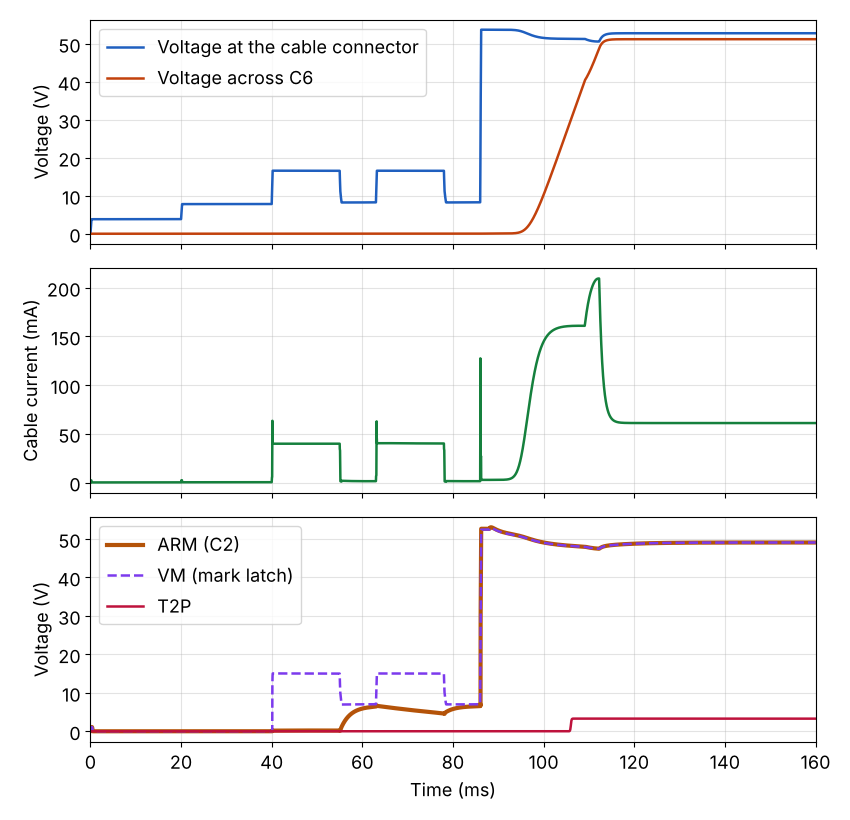
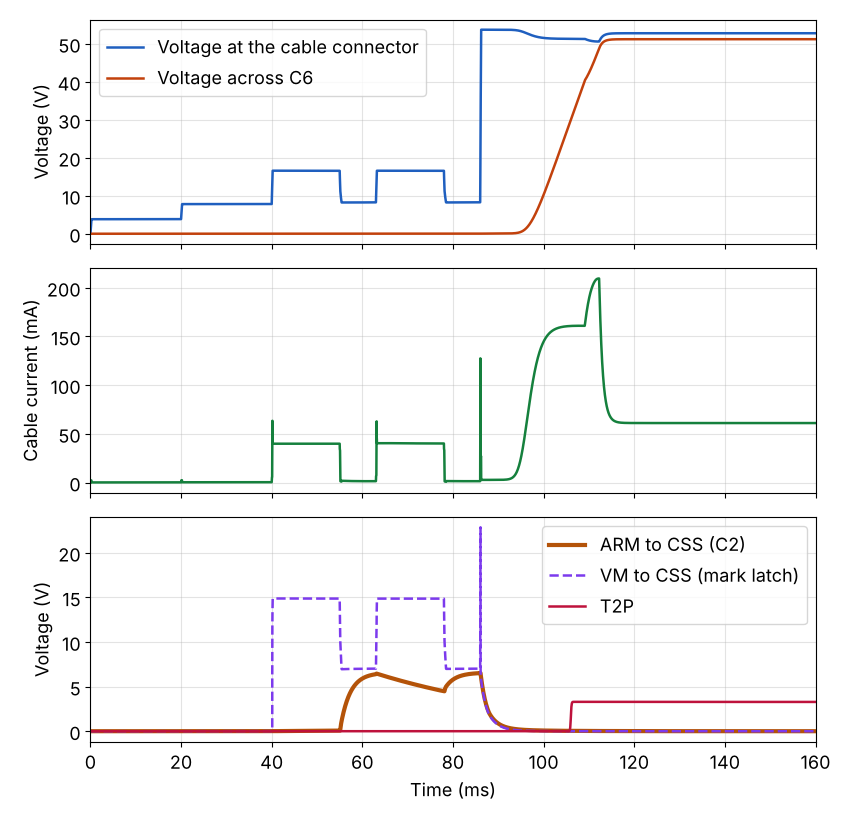
Correct stale figures and the sequence plot of the PoE front end
The requirement and comparison tables carry the current class and inrush
results. The sequence plot shows ARM and VM measured to CSS.

Claude-Session: https://claude.ai/code/session_01T8XQLubxXrmn6R8AJASSd5

Changed region(s): [[0.0306, 0.6402, 0.9788, 0.8841], [0.5812, 0.8537, 0.9788, 0.9146], [0.2753, 0.8841, 0.3365, 0.9146]]

diff --git a/design/poe-front-end/sim/plots.py b/design/poe-front-end/sim/plots.py
@@ -20,10 +20,10 @@ def plot_sequence(fname, events, rcab, title):
     ax[0].set_ylabel("Voltage (V)"); ax[0].legend(loc="upper left")
     ax[1].plot(t, [-r[2] * 1e3 for r in d], color="#15803d")
     ax[1].set_ylabel("Cable current (mA)")
-    ax[2].plot(t, [r[5] for r in d], color="#b45309", linewidth=3, label="ARM (C2)")
-    ax[2].plot(t, [r[4] for r in d], color="#7c3aed", linestyle="--", label="VM (mark latch)")
+    ax[2].plot(t, [r[12] for r in d], color="#b45309", linewidth=3, label="ARM to CSS (C2)")
+    ax[2].plot(t, [r[11] for r in d], color="#7c3aed", linestyle="--", label="VM to CSS (mark latch)")
     ax[2].plot(t, [r[7] for r in d], color="#be123c", label="T2P")
-    ax[2].set_ylabel("Voltage (V)"); ax[2].set_xlabel("Time (ms)"); ax[2].legend(loc="upper left")
+    ax[2].set_ylabel("Voltage (V)"); ax[2].set_xlabel("Time (ms)"); ax[2].legend(loc="upper right")
     ax[2].set_xlim(0, 160)
     fig.tight_layout()
     fig.savefig(os.path.join(HERE, fname)); plt.close(fig)

diff --git a/design/poe-front-end/sim/checks.py b/design/poe-front-end/sim/checks.py
@@ -113,7 +113,7 @@ def check_static():
             row(name, "Class sink turns off", f"{off[0]:.1f} V to {off[1]:.1f} V", "20.5 V to 30 V", 20.5 < off[0] and off[1] < 30)
 
 
-COLS = ["v(pip,pin)", "i(Vvss)", "v(vdd)", "v(vm)", "v(narm)", "v(nh)", "v(t2p,rtn)", "v(vdd,rtn)", "v(rtn)", "v(nhg)"]
+COLS = ["v(pip,pin)", "i(Vvss)", "v(vdd)", "v(vm)", "v(narm)", "v(nh)", "v(t2p,rtn)", "v(vdd,rtn)", "v(rtn)", "v(nhg)", "v(vm,css)", "v(narm,css)"]
 DET = [(4, 0.02), (8, 0.02)]
 
 

diff --git a/design/poe-front-end/README.md b/design/poe-front-end/README.md
@@ -37,7 +37,7 @@ The design is simulated and drawn. It is not built and not measured. The section
 | [Discrete parts or a PD controller IC](#discrete-parts-or-a-pd-controller-ic) | Cost and function side by side |
 | [Simulation](#simulation) | Method and results |
 | [Interfaces](#interfaces) | Signals to the converter and the firmware |
-| [Limits and open points](#limits-and-open-points) | Non-isolated design, untested points |
+| [Limits and open points](#limits-and-open-points) | What a first board has to prove |
 | [Bill of materials](#bill-of-materials) | Every part with LCSC number and price |
 | [Files](#files) | Files of this folder |
 | [Sources](#sources) | Documents the numbers come from |
@@ -108,7 +108,7 @@ All voltages are at the cable connector of the PD, in front of the bridges.
 | <a id="req-2"></a>REQ-2 | Detection voltage offset | – | 1.9 | V | [UNH-IOL test suite](#evidence-marks) | 0.91 | 0.92 | [Simulated](#evidence-marks) |
 | <a id="req-3"></a>REQ-3 | Detection capacitance | 50 | 120 | nF | [TI datasheet](#evidence-marks) | 97 | 118 | [Calculated](#evidence-marks) |
 | <a id="req-4"></a>REQ-4 | Non-valid signature slope, low side | – | 12 | kΩ | [UNH-IOL test suite](#evidence-marks) | 7.1 | 7.1 | [Calculated](#evidence-marks) |
-| <a id="req-5"></a>REQ-5 | Class 0 current between 14.5 V and 20.5 V | 0 | 4 | mA | [UNH-IOL test suite](#evidence-marks) | 0.54 | 0.80 | [Simulated](#evidence-marks) |
+| <a id="req-5"></a>REQ-5 | Class 0 current between 14.5 V and 20.5 V | 0 | 4 | mA | [UNH-IOL test suite](#evidence-marks) | 0.54 | 0.79 | [Simulated](#evidence-marks) |
 | <a id="req-6"></a>REQ-6 | Class 1 current between 14.5 V and 20.5 V | 9 | 12 | mA | [UNH-IOL test suite](#evidence-marks) | 9.59 | 11.56 | [Simulated](#evidence-marks) |
 | <a id="req-7"></a>REQ-7 | Class 2 current between 14.5 V and 20.5 V | 17 | 20 | mA | [UNH-IOL test suite](#evidence-marks) | 17.53 | 19.75 | [Simulated](#evidence-marks) |
 | <a id="req-8"></a>REQ-8 | Class 3 current between 14.5 V and 20.5 V | 26 | 30 | mA | [UNH-IOL test suite](#evidence-marks) | 26.53 | 29.04 | [Simulated](#evidence-marks) |
@@ -164,11 +164,11 @@ Net names used in the text:
 | VDD | Positive rail after the bridges |
 | VSS | Negative rail after the bridges |
 | GND | System ground of the adapter |
-| CSS | Return of the class sink, the mark latch and the two-event detector |
+| CSS | Return of every block that [Q3](#q3) switches |
 | NG | Gate of [Q3](#q3) and of [Q10](#q10) |
 | NA | Anode of [D2](#d2) |
 | VM | Output of the mark latch |
-| ARM | Voltage on [C2](#c2) |
+| ARM | Voltage on [C2](#c2), measured to CSS |
 | EVENT2 | Pulse during a second class event |
 | T2P | Logic output to the firmware |
 
@@ -226,7 +226,7 @@ This is the mark event. The PD has to draw between 0.25 mA and 4 mA there and mu
 like a valid detection signature.
 
 [Q5](#q5) and [Q6](#q6) form a latch. The first class event sets it through [R9](#r9). [R14](#r14) holds it while the
-voltage is in the mark range, where [D2](#d2) no longer conducts. While the latch is set, [R13](#r13) loads the
+voltage is in the mark range, where [D2](#d2) does not conduct. While the latch is set, [R13](#r13) loads the
 port: that is the mark current, and [R13](#r13) in parallel with [R1](#r1) gives the non-valid signature of
 [REQ-4](#req-4). The latch releases at about 4 V, so a PSE that returns to detection finds the plain
 signature again.
@@ -285,8 +285,8 @@ the 5 V converter; see [Interfaces](#interfaces).
 ![Simulated start-up on a Type 2 PSE with two class events](sim/two-event-sequence.png)
 
 The plot shows one complete start: detection at 4 V and 8 V, two class events with a mark event
-after each, then power. The class current is 41 mA. [C6](#c6) charges with a peak current of 210 mA,
-after which the converter draws a 3 W load. T2P rises as soon as the 3.3 V rail is present. The
+after each, then power. The class current is 41 mA. [C6](#c6) charges at about 160 mA; the peak of
+210 mA occurs when the converter starts with its 3 W load before [C6](#c6) is full. T2P rises as soon as the 3.3 V rail is present. The
 short current spikes at the voltage steps are the charging current of [C1](#c1).
 
 ## Behaviour with each kind of PSE
@@ -397,15 +397,15 @@ A PD controller IC replaces the [Class sink](#class-block), the [Mark latch](#ma
 | Two-event detection with T2P output | Yes | Yes |
 | T2P held for as long as the port is powered | No | Yes |
 | T2P level for a 25.5 W grant | High | Low |
-| Inrush current, lowest (mA) | 174 | 180 |
-| Inrush current, highest (mA) | 309 | 180 |
+| Inrush current, lowest (mA) | 155 | 180 |
+| Inrush current, highest (mA) | 326 | 180 |
 | Current limit in operation | No | Yes |
 | Thermal shutdown | No | Yes |
 | Power-good output for the converter | No | Yes |
 | Undervoltage lockout | In the converter | Built in |
 | Resistance of the pass switch (Ω) | 0.1 | 0.48 |
 | Loss in the pass switch at 0.6 A (W) | 0.04 | 0.17 |
-| Second source | Every part is generic | One maker |
+| Second source | Generic parts | One maker |
 | Evidence | [Simulated](#evidence-marks) | [Part datasheet](#evidence-marks) |
 
 The TMI7303B column counts the input block, the IC, its class resistor and a pull-up resistor
@@ -606,7 +606,7 @@ not meant to rest in the mark range, and the six simulated Type 1 sequences give
 result. In the failing case the adapter draws 25.5 W from a 15.4 W port and the PSE switches it
 off.
 
-**T2P expires.** T2P is valid for 1.3 s in the shortest simulated case ([C3](#c3) at −10 %, the
+**T2P expires.** T2P is valid for 1.3 s in the shortest simulated case ([C3](#c3) at −10 %, [R23](#r23) at −1 %, the
 highest gate threshold, the shortest class events, 27 °C), counted from the port reaching its operating
 voltage. Firmware that boots more slowly needs a latch on the 3.3 V side.
 
@@ -759,7 +759,7 @@ for [U1](#u1) and a smaller bridge.
 | --- | --- |
 | [`parts.py`](parts.py) | Part list with the LCSC number of every part |
 | [`bom.py`](bom.py) | Reads prices from lcsc.com and writes the tables of this note |
-| [`bom.json`](bom.json) | Price, stock and datasheet link of every part as read from lcsc.com |
+| [`bom.json`](bom.json) | Data of every part as read from lcsc.com |
 | [`datasheets.json`](datasheets.json) | Datasheet file in [`datasheets/components/`](../../datasheets/components/) for every LCSC number |
 | [`schematic/gen_schematic.py`](schematic/gen_schematic.py) | Draws the schematic and compares its netlist with the simulated circuit |
 | [`schematic/poe-front-end.kicad_sch`](schematic/poe-front-end.kicad_sch) | KiCad schematic |
